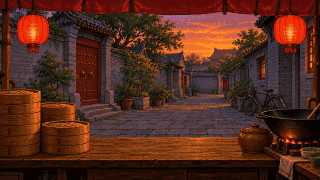
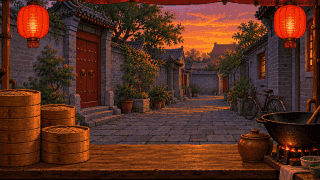
Pixel art cropped to size instead of squeezed; the stall repainted
image.mjs scales a picture to cover the pixel size and crops it from the
centre, since the model does not keep to 16:9 and squeezing stretched
everything in it. The stall and the stories' tile are made again so, and
the stall's counter, tray, steam and lantern glows move to match.

diff --git a/src/app/games/shopScene.ts b/src/app/games/shopScene.ts
@@ -12,12 +12,14 @@ export const H = 180
 const CELL_W = 77
 const CELL_H = 90
 // the counter's top edge, and the stretch of it the customer stands behind
-const COUNTER = 137
+const COUNTER = 144
 const OPEN_X0 = 88
 const OPEN_X1 = 244
 // where the customer stands, the middle of them
 const STAND_X = 168
-const STAND_BOTTOM = 152
+const STAND_BOTTOM = 161
+// the tray on the counter, its top edge
+const TRAY_Y = 155
 
 export type Mood = 'away' | 'enter' | 'wait' | 'happy' | 'cross' | 'leave'
 
@@ -52,10 +54,10 @@ interface Puff {
 const EMITTERS: Array<[number, number, number]> = [
   // x, y, how thick
   [20, 89, 1],
-  [58, 102, 0.8],
-  [66, 120, 1],
-  [255, 123, 0.5],
-  [286, 110, 0.7],
+  [58, 104, 0.8],
+  [66, 125, 1],
+  [255, 128, 0.5],
+  [286, 113, 0.7],
 ]
 
 const sprites = new Map<string, HTMLCanvasElement>()
@@ -154,7 +156,7 @@ export function shopScene(
     const n = 14
     for (let i = 0; i < n; i++) {
       const x = 281 + Math.random() * 17
-      const y = 134 + Math.random() * 7
+      const y = 141 + Math.random() * 8
       dot(
         x,
         y,
@@ -167,7 +169,7 @@ export function shopScene(
     }
     // the glow on the wok's underside
     const a = 0.16 + 0.06 * Math.sin(now / 90) + 0.04 * Math.sin(now / 37)
-    glow(289, 134, 18, `rgba(255, 140, 40, ${a})`)
+    glow(289, 141, 18, `rgba(255, 140, 40, ${a})`)
   }
 
   const glow = (x: number, y: number, r: number, c: string) => {
@@ -182,8 +184,8 @@ export function shopScene(
 
   const lanterns = (now: number) => {
     const a = 0.13 + 0.05 * Math.sin(now / 700)
-    glow(32, 31, 26, `rgba(255, 120, 60, ${a})`)
-    glow(290, 31, 26, `rgba(255, 120, 60, ${a * 0.9})`)
+    glow(32, 23, 26, `rgba(255, 120, 60, ${a})`)
+    glow(290, 23, 26, `rgba(255, 120, 60, ${a * 0.9})`)
   }
 
   // Where the customer is and how they move: sliding in from a side as
@@ -259,7 +261,7 @@ export function shopScene(
     const w = Math.min(n, perRow) * 13 + 10
     const tw = Math.max(46, w)
     const tx = Math.round(STAND_X - tw / 2)
-    const ty = 147
+    const ty = TRAY_Y
     // the tray: dark wood with a lighter rim
     g.fillStyle = '#3a2214'
     g.fillRect(tx, ty, tw, 9)
@@ -312,4 +314,4 @@ export function shopScene(
 // Where the customer's head is, as fractions of the scene, for the speech
 // bubble and the coins
 export const HEAD = { x: STAND_X / W, y: (STAND_BOTTOM - CELL_H + 18) / H }
-export const TRAY = { x: STAND_X / W, y: 147 / H }
+export const TRAY = { x: STAND_X / W, y: TRAY_Y / H }
